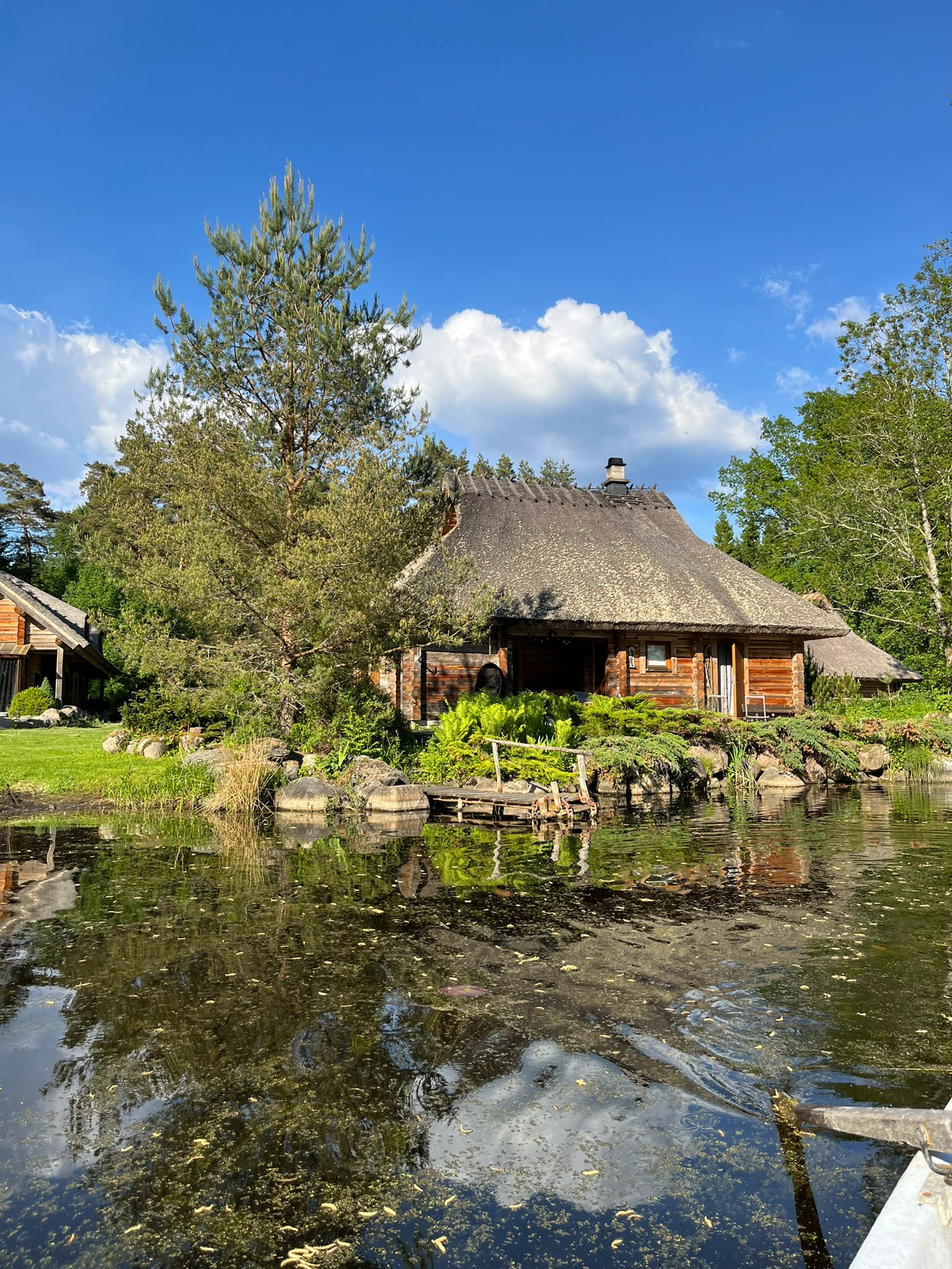
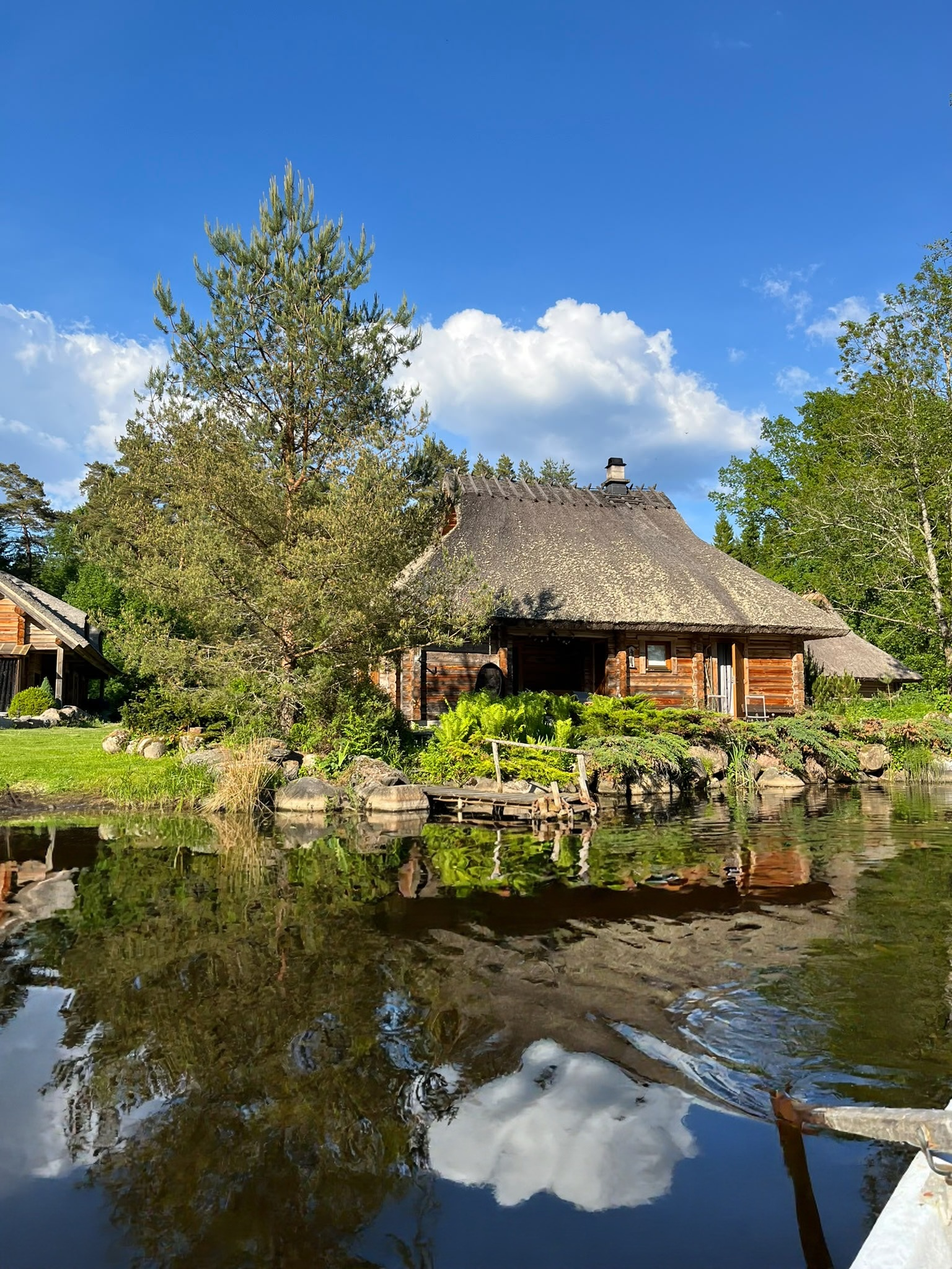
Houses: give each house its own photograph
One shared pond photo sat beside a list of three different houses, so
nothing on screen told you what any of them looked like. The section is now
three bands, each with its own image and its own detail, alternating
direction so it does not read as a list.

Saunamaja gets the pond photograph, retouched: the pond had heavy surface
algae. Cleaning it by colour does not work — the algae and the green
foliage reflections share a hue range, so a mask catches both and smears
the reflections. Instead the water was regenerated and composited back
below the shoreline, leaving the building, trees and sky as the untouched
original at full resolution. Verified pixel-identical above the seam.

Tiigimaja and Metsamaja use the existing house photos for now; swapping one
is a single line in lib/houses.ts.

Claude-Session: https://claude.ai/code/session_01Em3Apqb7wBA8BVX4zqtzYT

Changed region(s): [[0.0, 0.625, 1.0, 1.0]]

diff --git a/app/globals.css b/app/globals.css
@@ -633,38 +633,51 @@ nav.nav-scrolled .nav-lang-trigger { text-shadow: none; }
    FEATURE — dark, same tone as footer
 ══════════════════════════════ */
 .feature-section {
+  background: var(--bark);
+}
+
+/* Heading block above the three house bands */
+.feature-intro {
+  padding: var(--section-v) 5rem 3.5rem;
+}
+.feature-intro .section-label { color: var(--sage); opacity: 0.7; }
+
+/* One band per house: photograph on one side, its own detail on the other.
+   Bands alternate direction so the page does not read as a list. */
+.house-band {
   display: grid;
   grid-template-columns: 1fr 1fr;
-  min-height: 85vh;
+  min-height: 62vh;
+  border-top: 1px solid rgba(200,212,184,0.12);
 }
-.feature-image {
+.house-band--reversed .house-band-image { order: 2; }
+
+.house-band-image {
   position: relative;
   overflow: hidden;
+  min-height: 340px;
 }
-.feature-image-overlay {
+.house-band-overlay {
   position: absolute; inset: 0;
-  background: linear-gradient(180deg, rgba(26,32,16,0.12) 0%, rgba(26,32,16,0.48) 100%);
+  background: linear-gradient(180deg, rgba(26,32,16,0.10) 0%, rgba(26,32,16,0.40) 100%);
   z-index: 1;
 }
-.feature-image-label {
-  position: absolute;
-  bottom: 2.5rem; left: 2.5rem;
-  font-family: var(--font-sans);
-  font-size: var(--fs-2xs);
-  letter-spacing: var(--ls-widest);
-  text-transform: uppercase;
-  color: var(--mist);
-  opacity: 0.75;
-  z-index: 2;
-}
-.feature-content {
-  background: var(--bark);
+.house-band-content {
   padding: var(--section-v) 5rem;
   display: flex;
   flex-direction: column;
   justify-content: center;
+  align-items: flex-start;   /* keep the gallery link its own width, not the column's */
+  gap: 0.4rem;
 }
-.feature-content .section-label { color: var(--sage); opacity: 0.7; }
+.house-band-content .feature-list { width: 100%; }
+.house-band-content .feature-house-tag { margin-bottom: 1.2rem; }
+.house-band-content .feature-gallery-link { margin-top: 1.8rem; }
+
+.feature-outro {
+  padding: 3.5rem 5rem var(--section-v);
+}
+
 .feature-heading {
   font-size: clamp(2.8rem, 4vw, 4.4rem);
   font-weight: 300;
@@ -1264,9 +1277,13 @@ body.gallery-page .nav-social { text-shadow: none; }
   .services-grid { grid-template-columns: 1fr 1fr; }
   .services-grid--two { grid-template-columns: 1fr 1fr; }
 
-  .feature-section { grid-template-columns: 1fr; }
-  .feature-image { height: 55vw; min-height: 300px; }
-  .feature-content { padding: 4.5rem 2.5rem; }
+  .house-band { grid-template-columns: 1fr; min-height: 0; }
+  /* image always above the text, whichever way the desktop band runs */
+  .house-band--reversed .house-band-image { order: 0; }
+  .house-band-image { height: 55vw; min-height: 300px; }
+  .house-band-content { padding: 4rem 2.5rem; }
+  .feature-intro { padding: var(--section-v) 2.5rem 2.5rem; }
+  .feature-outro { padding: 2.5rem 2.5rem var(--section-v); }
 
   .trails-grid { grid-template-columns: 1fr 1fr; }
   .trails-header { margin-bottom: 4rem; }
@@ -1310,8 +1327,10 @@ body.gallery-page .nav-social { text-shadow: none; }
   .services-grid { grid-template-columns: 1fr; }
   .service-card { padding: 2.8rem 2rem; }
 
-  .feature-image { height: 62vw; min-height: 240px; }
-  .feature-content { padding: 3.5rem 1.5rem; }
+  .house-band-image { height: 62vw; min-height: 240px; }
+  .house-band-content { padding: 3rem 1.5rem; }
+  .feature-intro { padding: var(--section-v) 1.5rem 2rem; }
+  .feature-outro { padding: 2rem 1.5rem var(--section-v); }
 
   .trails-grid { grid-template-columns: 1fr; }
   .trail-item { padding-right: 0; }

diff --git a/components/Feature.tsx b/components/Feature.tsx
@@ -4,6 +4,7 @@ import Image from 'next/image'
 import Link from 'next/link'
 import { useLanguage } from '@/contexts/LanguageContext'
 import { T } from '@/lib/translations'
+import { HOUSE_IMAGES } from '@/lib/houses'
 
 function scrollTo(id: string) {
   return (e: React.MouseEvent<HTMLAnchorElement>) => {
@@ -15,35 +16,55 @@ function scrollTo(id: string) {
 export default function Feature() {
   const { lang } = useLanguage()
   const t = T.feature
+
   return (
     <section className="feature-section" id="majad">
-      <div className="feature-image">
-        <Image src="/images/tiik.jpg" alt="Oandu tiik" fill sizes="(max-width: 900px) 100vw, 50vw" quality={75} style={{ objectFit: 'cover', objectPosition: 'center' }} />
-        <div className="feature-image-overlay" aria-hidden="true" />
-        <span className="feature-image-label">{t.imgLabel[lang]}</span>
-      </div>
-      <div className="feature-content">
+      <div className="feature-intro">
         <p className="section-label">{t.label[lang]}</p>
         <h2 className="feature-heading">
           {t.h1[lang]}<br />
           <em>{t.h2[lang]}</em>
         </h2>
-        <div className="feature-houses">
-          {t.houses.map((house) => (
-            <div key={house.name.et} className="feature-house">
-              <div className="feature-house-header">
-                <span className="feature-house-name">{house.name[lang]}</span>
-                <span className="feature-house-tag">{house.tag[lang]}</span>
-              </div>
+      </div>
+
+      {t.houses.map((house, i) => {
+        const img = HOUSE_IMAGES[house.slug]
+        return (
+          <article
+            key={house.slug}
+            className={`house-band${i % 2 === 1 ? ' house-band--reversed' : ''}`}
+          >
+            <div className="house-band-image">
+              {img && (
+                <Image
+                  src={img.src}
+                  alt={img.alt[lang]}
+                  fill
+                  sizes="(max-width: 900px) 100vw, 50vw"
+                  quality={75}
+                  style={{ objectFit: 'cover', objectPosition: img.focus ?? 'center' }}
+                />
+              )}
+              <div className="house-band-overlay" aria-hidden="true" />
+            </div>
+
+            <div className="house-band-content">
+              <span className="feature-house-name">{house.name[lang]}</span>
+              <span className="feature-house-tag">{house.tag[lang]}</span>
               <ul className="feature-list">
                 {house.items.map(item => (
                   <li key={item.et}>{item[lang].replace(/ · /g, ', ')}</li>
                 ))}
               </ul>
-              <Link href={`/gallery#${house.slug}`} className="feature-gallery-link">{t.galleryLink[lang]}</Link>
+              <Link href={`/${lang}/gallery#${house.slug}`} className="feature-gallery-link">
+                {t.galleryLink[lang]}
+              </Link>
             </div>
-          ))}
-        </div>
+          </article>
+        )
+      })}
+
+      <div className="feature-outro">
         <a href="#broneeri" className="feature-cta" onClick={scrollTo('broneeri')}>{t.cta[lang]}</a>
       </div>
     </section>

diff --git a/lib/houses.ts b/lib/houses.ts
@@ -1,0 +1,54 @@
+import type { Lang } from './translations'
+
+/**
+ * One photograph per house, keyed by the slug used in translations.ts.
+ *
+ * To swap a house photo: drop the file in /public/images (or /public/galerii) and
+ * change the src here. Landscape or square works best — these are wide crops on
+ * desktop and shorter ones on phones. Set `focus` if the subject sits off-centre.
+ */
+export type HouseImage = {
+  src: string
+  alt: Record<Lang, string>
+  focus?: string
+}
+
+export const HOUSE_IMAGES: Record<string, HouseImage> = {
+  saunamaja: {
+    // Water retouched: surface algae removed below the shoreline, everything above it
+    // is the untouched original. See the note at the foot of this file.
+    src: '/galerii/saunamaja-veepealt.jpeg',
+    focus: '50% 42%',
+    alt: {
+      et: 'Saunamaja tiigi kaldal, mets peegeldumas vees',
+      en: 'The Sauna House at the pond, forest mirrored in the water',
+      ru: 'Банный дом у пруда, лес отражается в воде',
+    },
+  },
+  tiigimaja: {
+    src: '/images/tiigimaja.jpg',
+    alt: {
+      et: 'Tiigimaja tiigi kaldal',
+      en: 'The Pond House on the water’s edge',
+      ru: 'Прудовой дом на берегу пруда',
+    },
+  },
+  metsamaja: {
+    src: '/images/metsamaja.jpg',
+    alt: {
+      et: 'Metsamaja kõrgete kuuskede vahel',
+      en: 'The Forest House among tall spruce',
+      ru: 'Лесной дом среди высоких елей',
+    },
+  },
+}
+
+/**
+ * Note on saunamaja-veepealt.jpeg — the pond had heavy surface algae. It was cleaned by
+ * generating a water-only retouch and compositing it back below the shoreline, so the
+ * building, trees and sky are the untouched original at full resolution. Verified: the
+ * top 60% of the frame is pixel-identical to the source.
+ *
+ * Colour filtering alone does NOT work on this image — the algae and the green foliage
+ * reflections share a hue range, so a mask catches both and smears the reflections.
+ */
